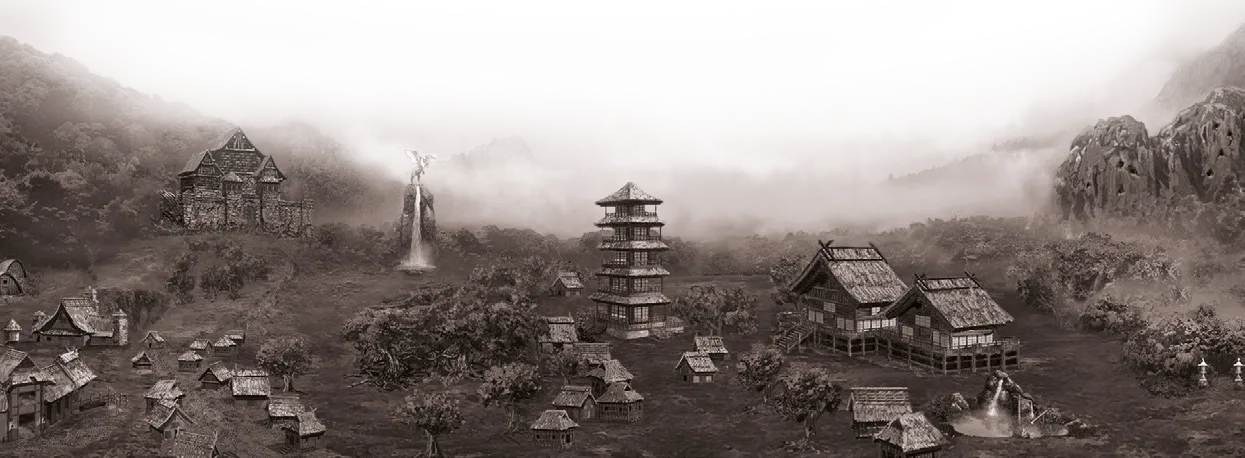
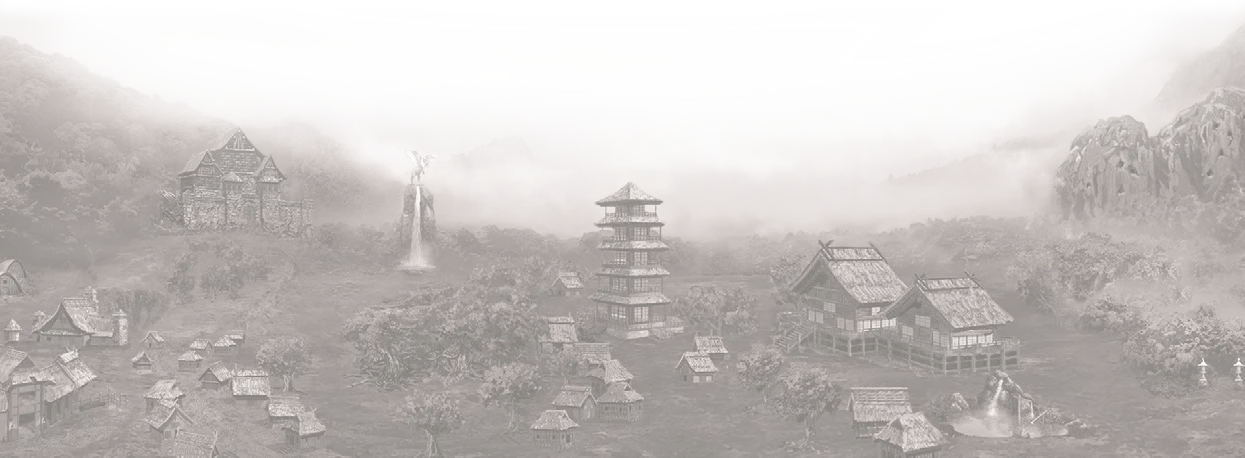
Update rampart bottom image

diff --git a/metadata.tex b/metadata.tex
@@ -425,11 +425,13 @@
   \qrgithub
 \end{center}
 
+\AddToHookNext{shipout/background}{
+  \put (0in,-\paperheight){\includegraphics[width=\paperwidth,height=\paperheight]{\layout/tausta.png}}
+}
 \thispagestyle{empty}
 \begin{tikzpicture}[remember picture, overlay]
   \node(cover)[anchor=center, yshift=9em] at (current page.south) {
     \includegraphics[width=1.01\paperwidth, keepaspectratio]{\layout/rampart_background.png}
-    \thispagestyle{empty}
   };
 \end{tikzpicture}
 
